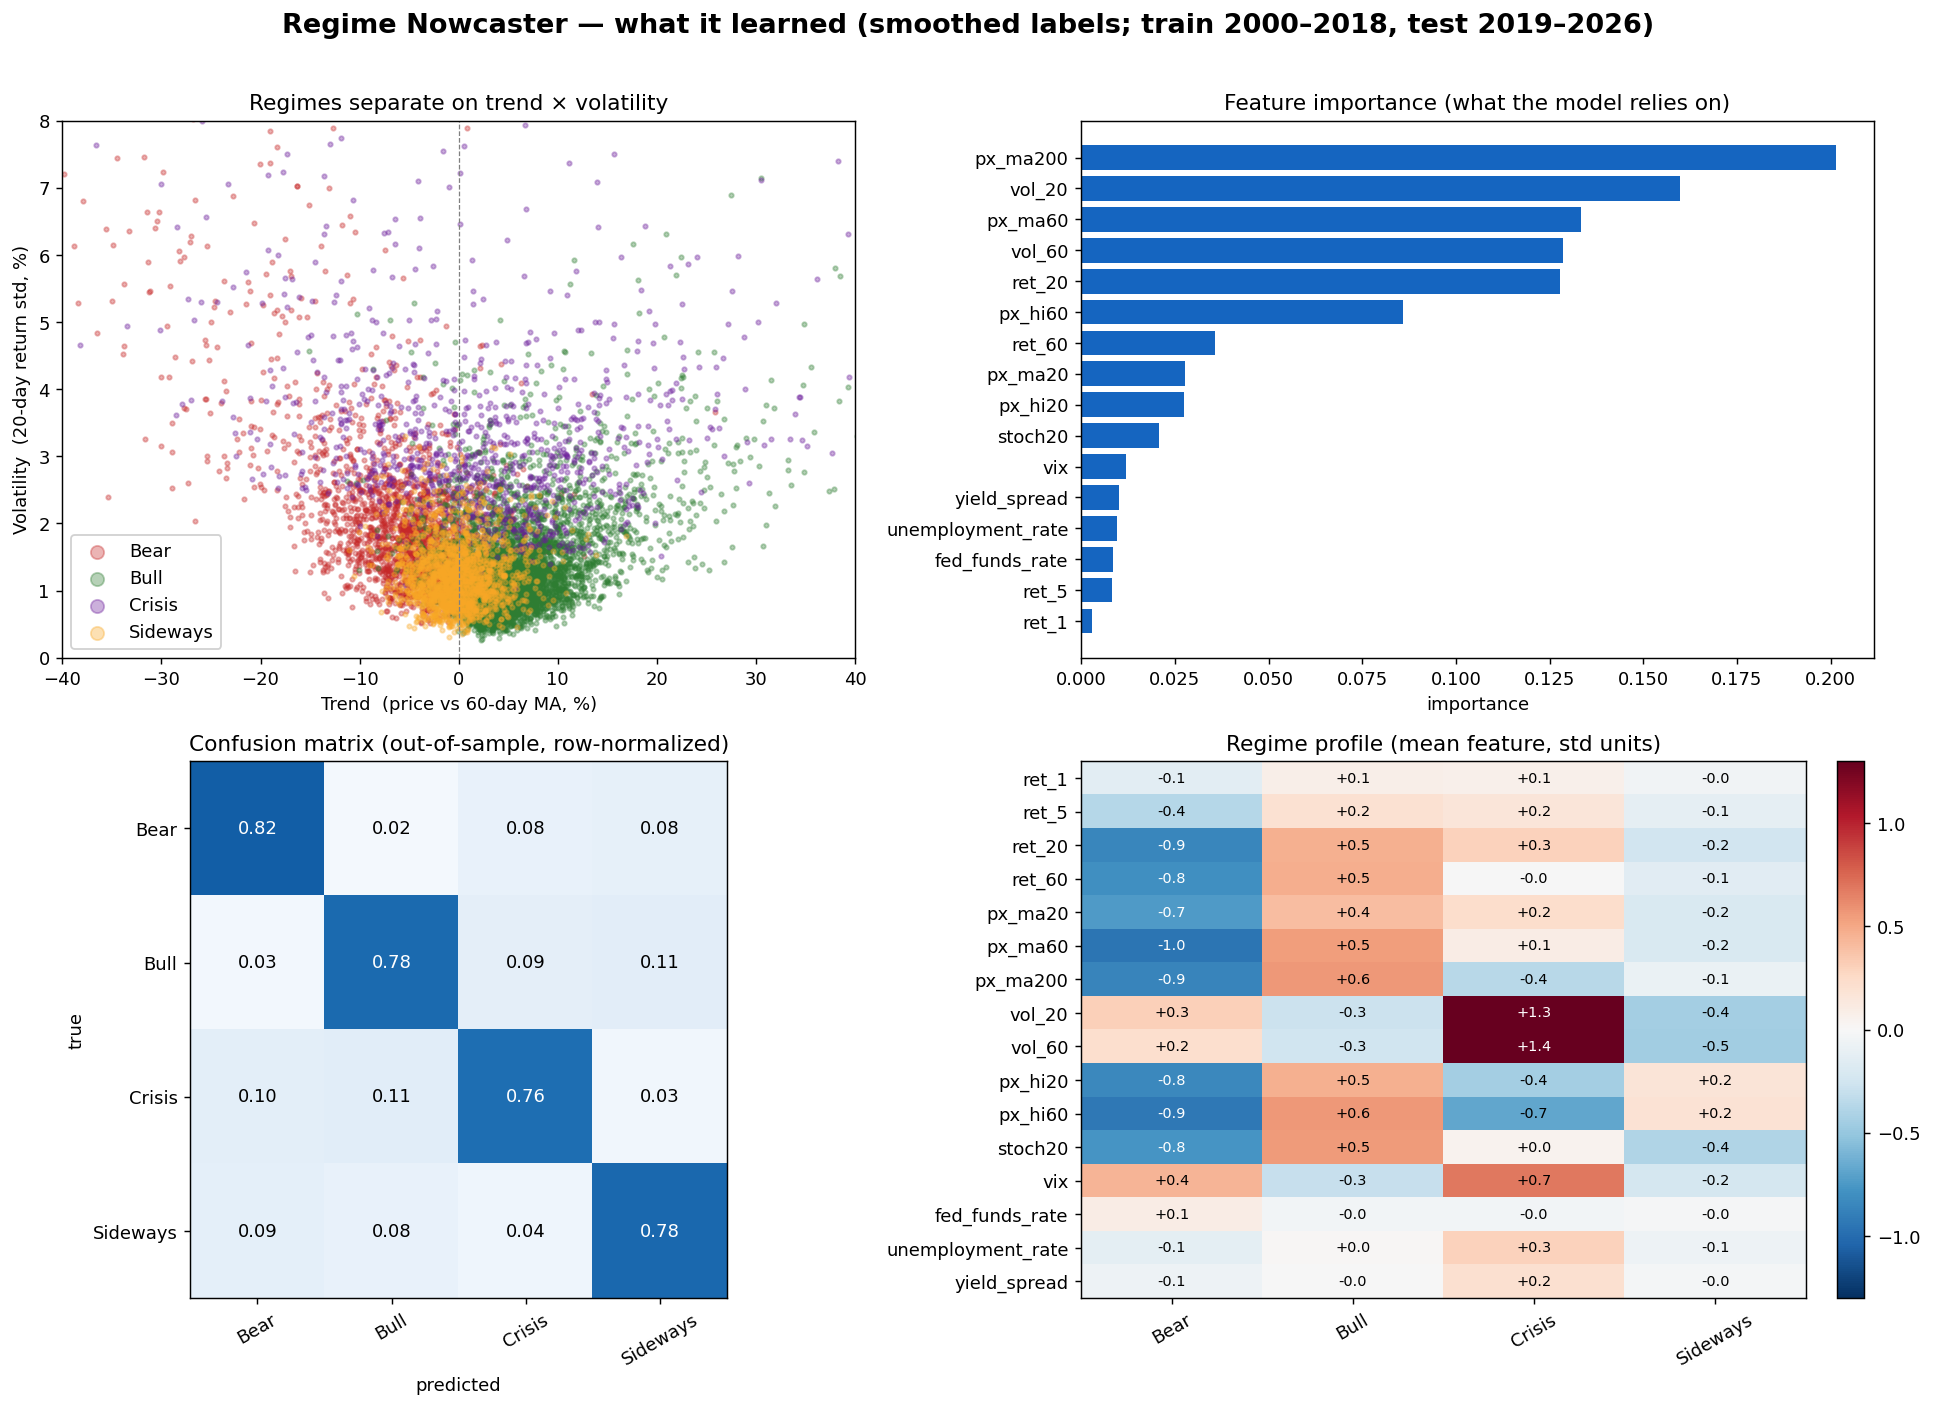
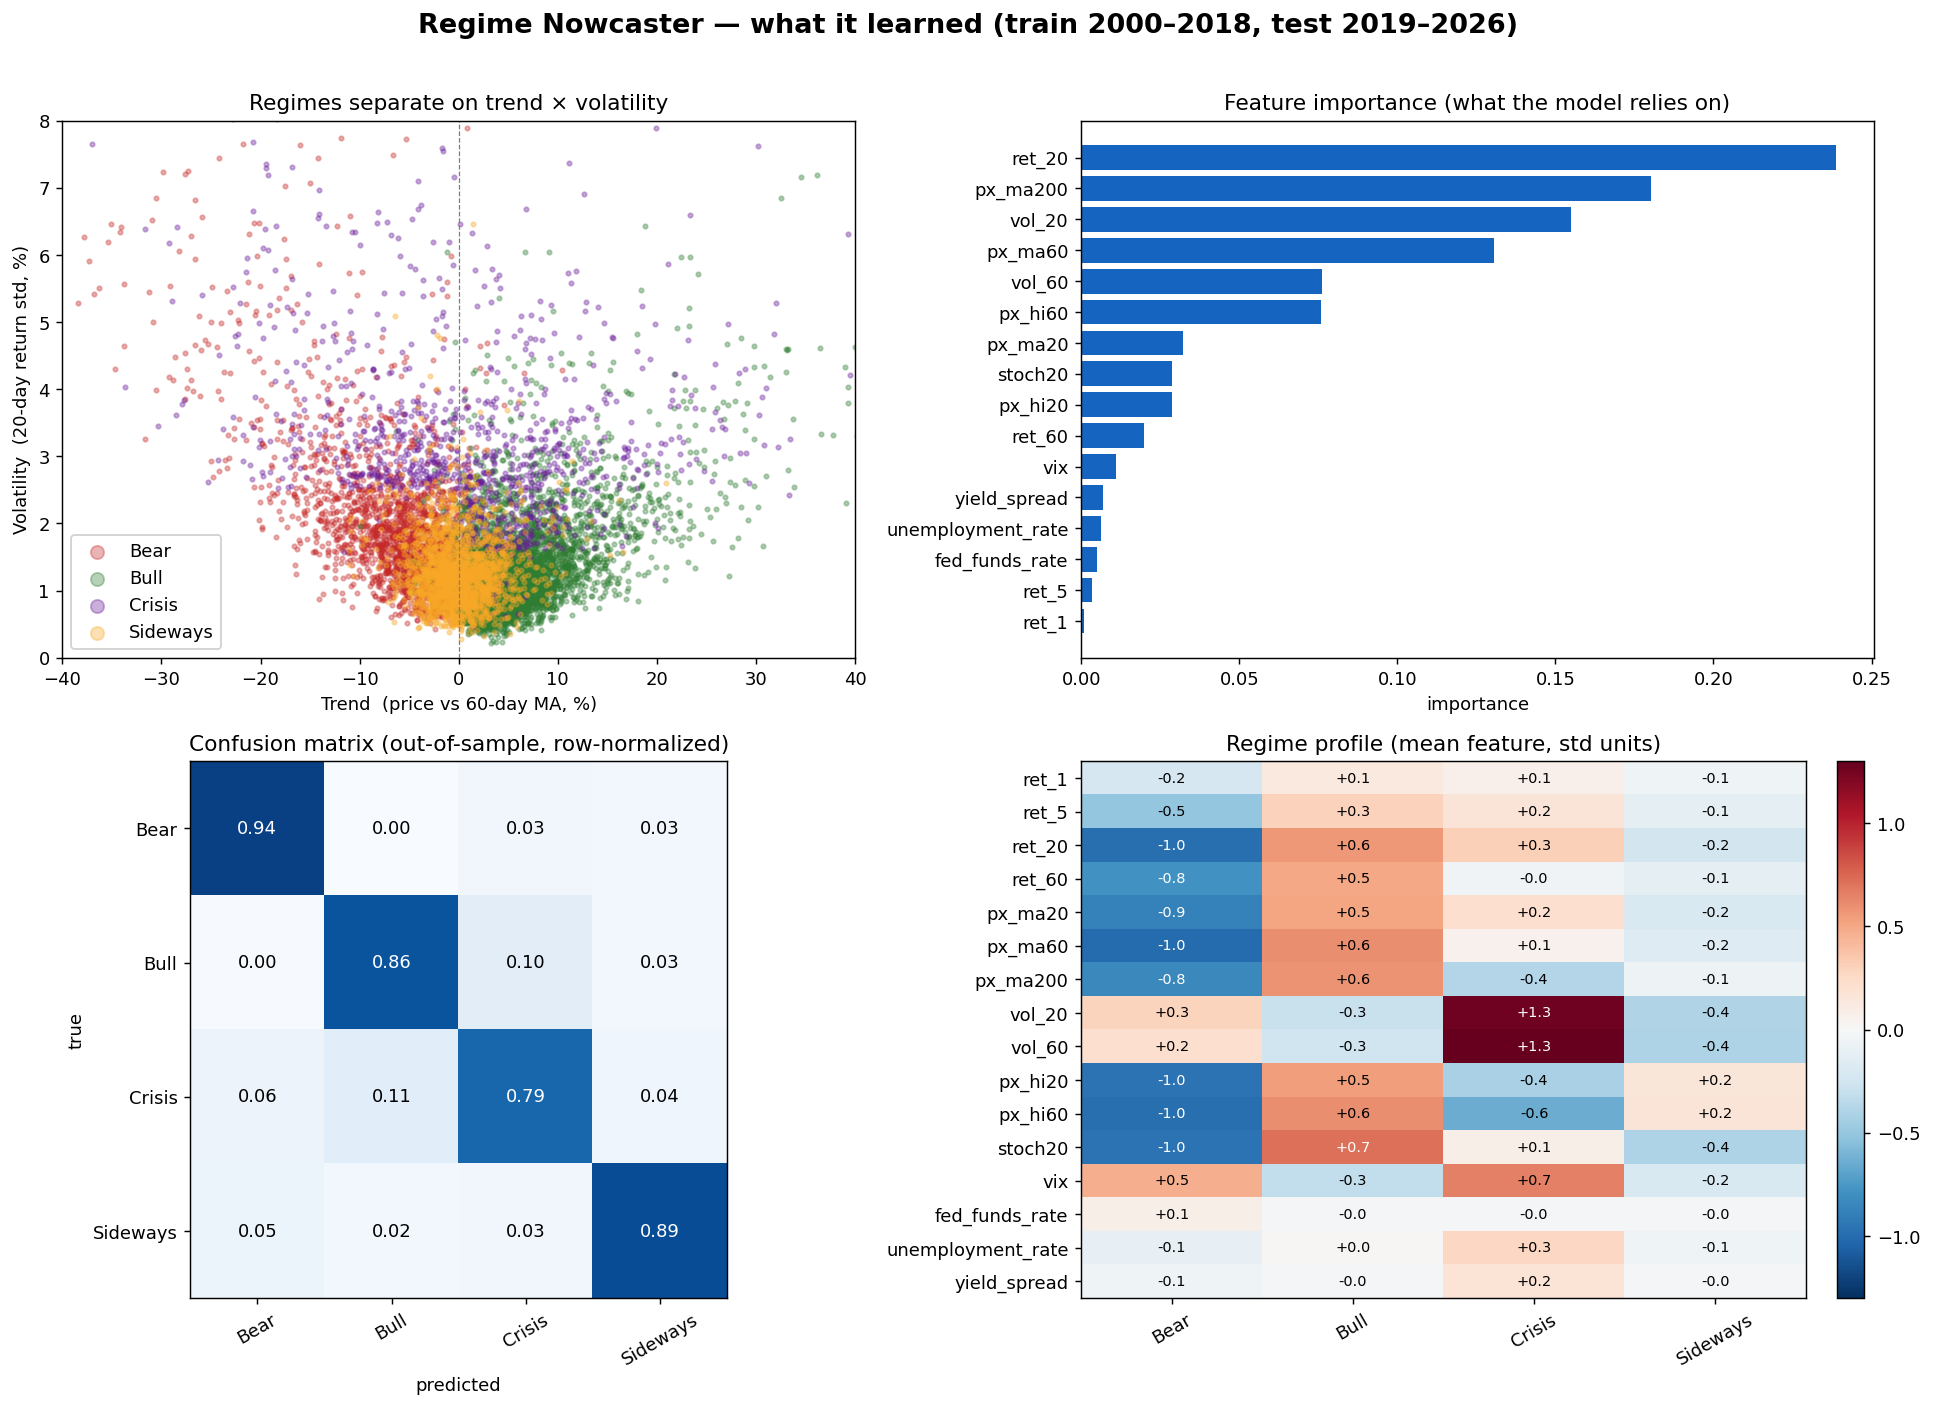
Remove label smoothing; train nowcaster on raw labels
Smoothing required future information (neighbor run lengths) and
systematically delayed regime flips around market tops, so it was
dropped. The classifier now trains directly on the raw daily labels;
the smoothing experiment and rationale are documented in README
limitations.

diff --git a/regime_classifier.py b/regime_classifier.py
@@ -6,13 +6,11 @@ Given trailing price/macro features as of day t, classify the CURRENT market reg
 day t and the label is day t's regime.
 
 Pipeline:
-  1. Smooth the raw daily labels into persistent regimes (see regime_smooth.py) — the raw
-     labels flip every ~7 days, which is labeling noise rather than real regime switching.
-  2. Engineer per-ticker technical features (momentum / MA deviation / volatility / price
+  1. Engineer per-ticker technical features (momentum / MA deviation / volatility / price
      position) + macro features (vix, rates, unemployment, yield curve).
-  3. Time-based train/test split (no look-ahead, no shuffle).
-  4. RandomForest with balanced class weights.
-  5. Report accuracy + per-class metrics + confusion matrix, feature importance, and a
+  2. Time-based train/test split (no look-ahead, no shuffle).
+  3. RandomForest with balanced class weights.
+  4. Report accuracy + per-class metrics + confusion matrix, feature importance, and a
      per-regime feature profile ("what characterizes each regime").
 """
 from __future__ import annotations
@@ -24,12 +22,9 @@ import pandas as pd
 from sklearn.ensemble import RandomForestClassifier
 from sklearn.metrics import classification_report, confusion_matrix, f1_score
 
-from regime_smooth import smooth
-
 HERE = os.path.dirname(os.path.abspath(__file__))
 DATA = os.path.join(HERE, "stock_market_regimes_2000_2026.csv")
 TEST_START = "2019-01-01"   # out-of-sample: covers COVID crash + 2022 bear
-MIN_DUR = 10                # minimum regime duration (trading days) after smoothing
 
 
 # ── feature engineering (per ticker, trailing windows only) ───────────────────
@@ -60,26 +55,21 @@ FEATURES = TECH + MACRO
 
 
 def load_and_prepare() -> pd.DataFrame:
-    """Load data, smooth labels into persistent regimes, engineer features."""
+    """Load data and engineer features."""
     df = pd.read_csv(DATA)
     df["date"] = pd.to_datetime(df["date"])
     df = df.sort_values(["ticker", "date"]).reset_index(drop=True)
     df["yield_spread"] = df["10y_treasury"] - df["2y_treasury"]
+    df["regime"] = df["regime_label"]
+    df = df[df["regime"] != "High-volatility"].copy()  # only 16 rows, cannot learn
 
-    # step 1: smooth labels (removes ~day-to-day flicker; see regime_smooth.py)
-    df["regime"] = df.groupby("ticker")["regime_label"].transform(
-        lambda s: smooth(s.to_numpy(), MIN_DUR)
-    )
-    df = df[df["regime"] != "High-volatility"].copy()  # 16 raw rows, absorbed by smoothing
-
-    # step 2: features
     df = df.groupby("ticker", group_keys=False).apply(add_technical_features)
     return df.dropna(subset=FEATURES + ["regime"])
 
 
 def main() -> None:
     df = load_and_prepare()
-    print(f"usable rows after smoothing + feature warmup: {len(df):,}")
+    print(f"usable rows after feature warmup: {len(df):,}")
 
     train = df[df["date"] < TEST_START]
     test  = df[df["date"] >= TEST_START]

diff --git a/regime_plot.py b/regime_plot.py
@@ -1,4 +1,4 @@
-"""Dashboard of what the nowcast regime model learned (trained on smoothed labels)."""
+"""Dashboard of what the nowcast regime model learned."""
 from __future__ import annotations
 
 import os
@@ -25,7 +25,7 @@ clf.fit(train[FEATURES], train["regime"])
 labels = sorted(df["regime"].unique())
 
 fig, ax = plt.subplots(2, 2, figsize=(15, 11))
-fig.suptitle("Regime Nowcaster — what it learned (smoothed labels; train 2000–2018, test 2019–2026)",
+fig.suptitle("Regime Nowcaster — what it learned (train 2000–2018, test 2019–2026)",
              fontsize=15, fontweight="bold")
 
 # (0,0) scatter: trend vs volatility, colored by regime

diff --git a/README.md b/README.md
@@ -8,59 +8,31 @@ A supervised **market-regime nowcaster**. Given trailing price and macro feature
 
 ---
 
-## Why this exists
-
-Raw daily regime labels are **noisy**: they flip every ~7 days (median run length 3 days, 70% of segments last ≤5 days). Real market regimes do not switch that fast — most of that churn is labeling noise. So the pipeline has two stages:
-
-1. **Smooth** the labels into persistent regimes.
-2. **Learn** a classifier that maps market features to those clean regimes, and inspect *what characterizes each regime*.
-
----
-
-## Part 1 — Label smoothing
-
-Short regime runs (below `min_dur` trading days) are merged into their longer neighbor until every segment is persistent. With `min_dur = 10`:
-
-| | flip rate | median run | fragments ≤5d | class mix (Bull/Sideways/Bear/Crisis) |
-|---|---|---|---|---|
-| Raw | 14.9% | 3 days | 70% | 42.3 / 23.1 / 22.4 / 12.1 |
-| Smoothed | **2.6%** | **27 days** | **0%** | 45.5 / 19.9 / 22.9 / **11.8** |
-
-The class balance is essentially preserved — in particular **Crisis survives** (12.1% → 11.8%), confirming Crisis periods are genuinely clustered rather than scattered noise.
-
-![Raw vs smoothed regimes on the S&P 500](figures/regime_smoothing_comparison.png)
-
-The smoothed bands line up with textbook market history: the Q4-2018 selloff (Bear), the COVID crash (Crisis, purple), the 2022 bear market, and the 2023 recovery.
-
-> Smoothing uses information from both sides of a run to define the clean label, so the smoothed labels are a **ground truth for training/evaluation** — like any label they are not available in real time. The causal constraint is only on *features* (past-only), never on labels.
-
----
-
-## Part 2 — The nowcast classifier
+## Approach
 
 **Features (all trailing / past-only):**
 
 - *Technical:* 1/5/20/60-day returns; price vs 20/60/200-day MA; 20/60-day volatility; price vs 20/60-day high; 20-day stochastic position.
 - *Macro:* VIX, fed funds rate, unemployment rate, 10y–2y yield spread.
 
-**Split:** chronological — train `< 2019-01-01`, test `>= 2019-01-01` (out-of-sample covers the COVID crash and the 2022 bear market). No shuffling; features are strictly trailing, so there is no look-ahead from the feature side.
+**Split:** chronological — train `< 2019-01-01` (~168k rows), test `>= 2019-01-01` (~69k rows; out-of-sample covers the COVID crash and the 2022 bear market). No shuffling; features are strictly trailing, so there is no look-ahead from the feature side.
 
 **Model:** `RandomForestClassifier`, 300 trees, balanced class weights.
 
-### Results (out-of-sample, 2019–2026)
+## Results (out-of-sample, 2019–2026)
 
 | Regime | Precision | Recall | F1 |
 |---|---|---|---|
-| Bear | 0.834 | 0.821 | 0.827 |
-| Bull | 0.928 | 0.775 | 0.845 |
-| Sideways | 0.658 | 0.784 | 0.716 |
-| Crisis | 0.505 | 0.761 | 0.607 |
-| **Accuracy** | | | **0.787** |
-| **Macro F1** | | | **0.749** |
+| Bear | 0.919 | 0.935 | 0.927 |
+| Bull | 0.959 | 0.862 | 0.908 |
+| Sideways | 0.881 | 0.890 | 0.886 |
+| Crisis | 0.570 | 0.790 | 0.663 |
+| **Accuracy** | | | **0.877** |
+| **Macro F1** | | | **0.846** |
 
 ![Regime dashboard](figures/regime_dashboard.png)
 
-### What the model discovered
+## What the model discovered
 
 Without being told any rules, the classifier recovers a textbook description of each regime (feature means, in standard-deviation units):
 
@@ -69,11 +41,7 @@ Without being told any rules, the classifier recovers a textbook description of 
 - **Crisis** — the defining feature is **volatility** (vol_20/vol_60 ≈ +1.3σ, VIX +0.7σ); trend is mixed, which is why Crisis and Bull are the main confusion pair (violent up-moves look similar).
 - **Sideways** — everything near zero, volatility *below* average (calm and directionless).
 
-Top features: `px_ma200`, `vol_20`, `px_ma60`, `vol_60`, `ret_20`. Macro features contribute little — these labels are essentially **price/volatility defined**, not macro defined.
-
-### A note on the accuracy number
-
-A variant trained on the **raw** (unsmoothed) labels scores ~0.88 accuracy — higher, but partly because choppy labels are locally easy to fit. The smoothed model scores lower (0.787) because it solves a harder, more useful problem: identifying the persistent regime *even when short-term price action is noisy* (e.g. a pullback inside an ongoing bull is still labeled Bull). Lower raw accuracy here reflects a more meaningful target, not a worse model.
+Top features: `ret_20`, `px_ma200`, `vol_20`, `px_ma60` — i.e. the model settles on **medium-term trend + long-term trend + volatility**, matching how practitioners describe regimes. Macro features contribute little: these labels are essentially **price/volatility defined**, not macro defined.
 
 ---
 
@@ -88,36 +56,32 @@ macro_context, unemployment_rate, fed_funds_rate, cpi, 10y_treasury, 2y_treasury
 
 39 tickers (individual stocks + ^GSPC/^DJI/^IXIC/^RUT), daily, 2000-01-03 to 2026-01-30 (~245k rows).
 
----
-
 ## Usage
 
 ```bash
 pip install -r requirements.txt
 
-python regime_smooth.py      # Part 1: smoothing stats + writes smoothed dataset
-python regime_smooth_viz.py  # Part 1: raw-vs-smoothed figure
-python regime_classifier.py  # Part 2: train + evaluate the nowcaster
-python regime_plot.py        # Part 2: dashboard figure
+python regime_classifier.py  # train + evaluate the nowcaster
+python regime_plot.py        # dashboard figure
 ```
 
 ## Files
 
 | File | Purpose |
 |---|---|
-| `regime_smooth.py` | Label smoothing (min-duration consolidation) + choppiness stats |
 | `regime_classifier.py` | Feature engineering, time split, RandomForest nowcaster, evaluation |
 | `regime_plot.py` | Dashboard: scatter, feature importance, confusion matrix, regime profile |
-| `regime_smooth_viz.py` | Raw vs smoothed regime bands on the S&P 500 |
 
 ---
 
 ## Scope & limitations
 
-- **Nowcasting, not forecasting.** It identifies the current regime; it does not predict future regimes or returns. Because features are trailing, the signal is inherently lagging.
+- **Nowcasting, not forecasting.** It identifies the current regime; it does not predict future regimes or returns. Because features are trailing, the signal is inherently lagging — it cannot call a market top before the decline shows up in the data.
+- **Raw labels are choppy.** The daily labels flip every ~7 trading days on average (median run length 3 days), so day-to-day predictions inherit some of that flicker. We experimented with smoothing the labels into persistent regimes, but rejected it: the smoothing decision ("merge a short run into its longer neighbor") requires knowing how long the *next* regime lasts — future information that would not be available in real time, and that systematically delayed regime flips around market tops. Any de-noising therefore belongs downstream of the classifier, not inside the labels.
 - **Labels are price/volatility defined**, so high accuracy partly reflects the model re-discovering the labeling rule rather than independent predictive skill.
+- **Overlapping samples.** Adjacent days share almost identical feature windows, so the effective sample size is far smaller than the row count.
 - **Single test window** (2019–2026). Behavior in other periods is untested.
-- Not connected to any trading strategy or backtest here — this repo is only the regime classifier.
+- Not connected to any trading strategy or backtest — this repo is only the classifier.
 
 ## Disclaimer
 